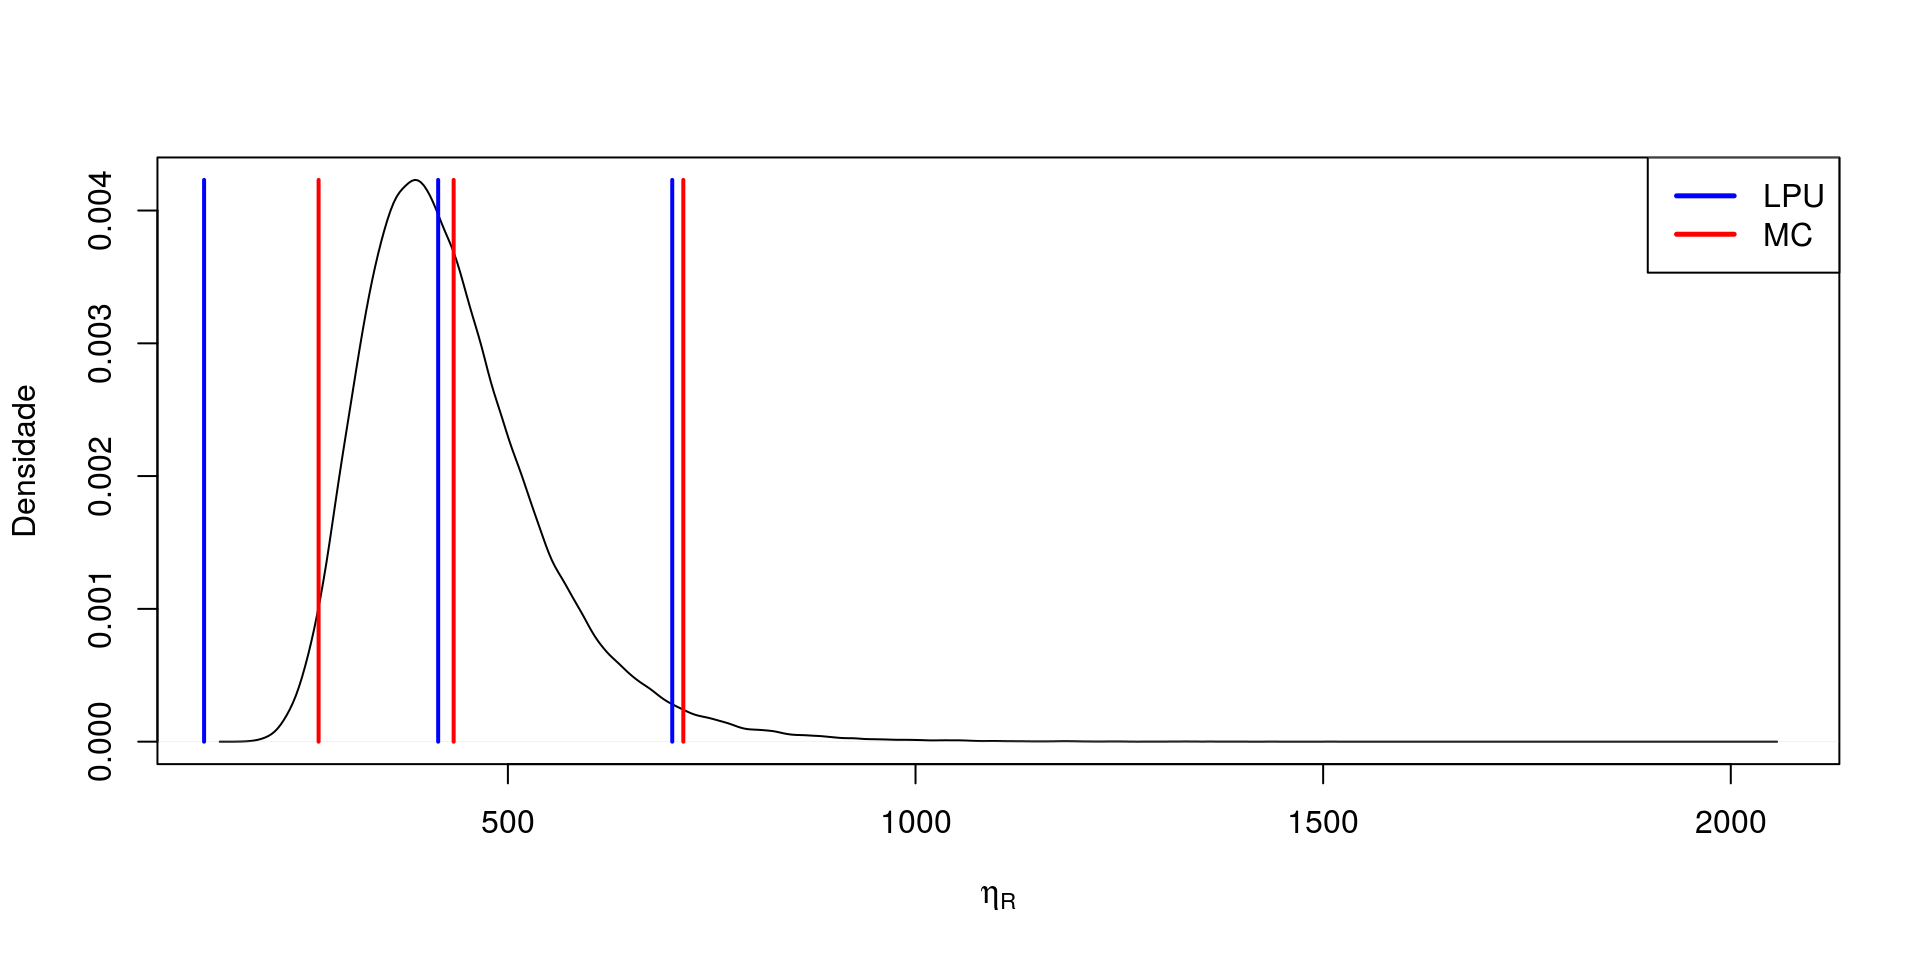
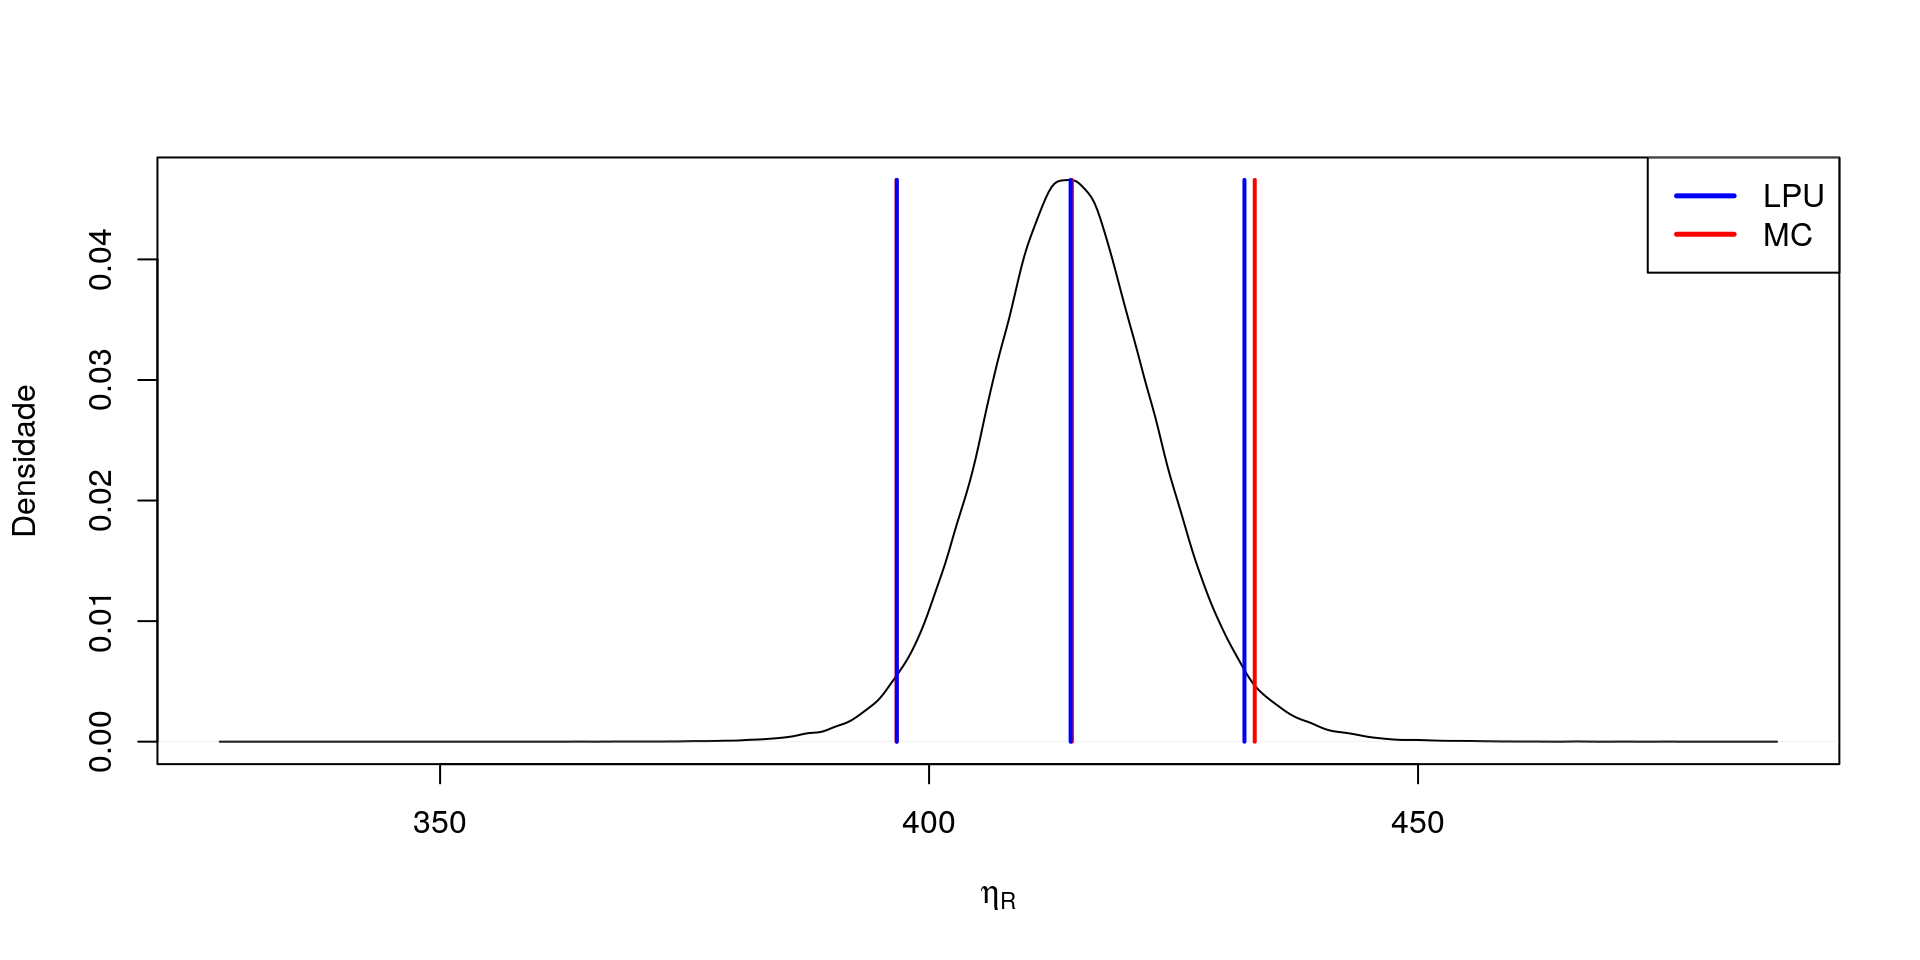
Add files via upload

diff --git a/lab2.html b/lab2.html
@@ -320,11 +320,11 @@ $(document).ready(function () {
 <td align="left">-0.0000998172672722357</td>
 </tr>
 <tr class="even">
-<td><span class="math inline">\(c*UE_i\)</span></td>
+<td><span class="math inline">\(c*UE_r\)</span></td>
 <td align="left">0.000194861851000034</td>
 </tr>
 <tr class="odd">
-<td><span class="math inline">\(c*UE_r\)</span></td>
+<td><span class="math inline">\(c*UE_i\)</span></td>
 <td align="left">-0.000232121846919487</td>
 </tr>
 <tr class="even">
@@ -345,11 +345,11 @@ $(document).ready(function () {
 </tr>
 <tr class="even">
 <td>LEP</td>
-<td align="left">0.493452210257275</td>
+<td align="left">0.493452432974323</td>
 </tr>
 <tr class="odd">
 <td>HEP</td>
-<td align="left">0.494782605466752</td>
+<td align="left">0.494782757548551</td>
 </tr>
 <tr class="even">
 <td><span class="math inline">\(\delta_1\)</span></td>
@@ -361,11 +361,11 @@ $(document).ready(function () {
 </tr>
 <tr class="even">
 <td>DH</td>
-<td align="left">0.0000149846092574735</td>
+<td align="left">0.0000148325274585415</td>
 </tr>
 <tr class="odd">
 <td>DL</td>
-<td align="left">0.0000186862663647536</td>
+<td align="left">0.0000189089834131129</td>
 </tr>
 <tr class="even">
 <td>1 Algarismo Significativo</td>
@@ -390,7 +390,13 @@ $(document).ready(function () {
 <li><span class="math inline">\(T=m_cgL\)</span></li>
 </ul>
 <p>onde: <span class="math inline">\(m_c=m_{Re}+m_{Cal}\)</span></p>
-<table>
+<table style="width:62%;">
+<colgroup>
+<col width="20%" />
+<col width="9%" />
+<col width="8%" />
+<col width="23%" />
+</colgroup>
 <thead>
 <tr class="header">
 <th>Fontes</th>
@@ -403,7 +409,7 @@ $(document).ready(function () {
 <tr class="odd">
 <td>Massa (<span class="math inline">\(m_{Re}\)</span>)</td>
 <td align="center">A</td>
-<td align="center">Normal</td>
+<td align="center">t de Student</td>
 <td align="center"><span class="math inline">\(35.7653~kg\)</span>; Desvio Padrão: <span class="math inline">\(0.3~g\)</span>; Repetições: 10</td>
 </tr>
 <tr class="even">
@@ -472,11 +478,11 @@ $(document).ready(function () {
 </tr>
 <tr class="even">
 <td>LEP</td>
-<td align="left">700.098159568585</td>
+<td align="left">700.09776817008</td>
 </tr>
 <tr class="odd">
 <td>HEP</td>
-<td align="left">700.108263347112</td>
+<td align="left">700.108703448009</td>
 </tr>
 <tr class="even">
 <td><span class="math inline">\(\delta_1\)</span></td>
@@ -488,11 +494,11 @@ $(document).ready(function () {
 </tr>
 <tr class="even">
 <td>DH</td>
-<td align="left">0.000223422882868363</td>
+<td align="left">0.00021667801422609</td>
 </tr>
 <tr class="odd">
 <td>DL</td>
-<td align="left">0.000204524123091687</td>
+<td align="left">0.000186874382507085</td>
 </tr>
 <tr class="even">
 <td>1 Algarismo Significativo</td>
@@ -515,7 +521,13 @@ $(document).ready(function () {
 <li><span class="math inline">\(T=m_cgL\)</span></li>
 </ul>
 <p>onde: <span class="math inline">\(m_c=m_{Re}+m_{Cal}\)</span></p>
-<table>
+<table style="width:62%;">
+<colgroup>
+<col width="20%" />
+<col width="9%" />
+<col width="8%" />
+<col width="23%" />
+</colgroup>
 <thead>
 <tr class="header">
 <th>Fontes</th>
@@ -528,7 +540,7 @@ $(document).ready(function () {
 <tr class="odd">
 <td>Massa (<span class="math inline">\(m_{Re}\)</span>)</td>
 <td align="center">A</td>
-<td align="center">Normal</td>
+<td align="center">t de Student</td>
 <td align="center"><span class="math inline">\(35.7653~kg\)</span>; Desvio Padrão: <span class="math inline">\(0.3~g\)</span>; Repetições: 10</td>
 </tr>
 <tr class="even">
@@ -597,11 +609,11 @@ $(document).ready(function () {
 </tr>
 <tr class="even">
 <td>LEP</td>
-<td align="left">699.937854962063</td>
+<td align="left">699.937899972477</td>
 </tr>
 <tr class="odd">
 <td>HEP</td>
-<td align="left">700.27189550356</td>
+<td align="left">700.271851436035</td>
 </tr>
 <tr class="even">
 <td><span class="math inline">\(\delta_1\)</span></td>
@@ -613,11 +625,11 @@ $(document).ready(function () {
 </tr>
 <tr class="even">
 <td>DH</td>
-<td align="left">0.0350473404071181</td>
+<td align="left">0.0350914079321001</td>
 </tr>
 <tr class="odd">
 <td>DL</td>
-<td align="left">0.0352055199898587</td>
+<td align="left">0.0352505304044826</td>
 </tr>
 <tr class="even">
 <td>1 Algarismo Significativo</td>
@@ -733,11 +745,11 @@ $(document).ready(function () {
 </tr>
 <tr class="odd">
 <td>LEP</td>
-<td align="left">1001.05104648895</td>
+<td align="left">1001.04788858546</td>
 </tr>
 <tr class="even">
 <td>HEP</td>
-<td align="left">1004.35418264329</td>
+<td align="left">1004.3557168658</td>
 </tr>
 <tr class="odd">
 <td><span class="math inline">\(\delta_1\)</span></td>
@@ -749,11 +761,11 @@ $(document).ready(function () {
 </tr>
 <tr class="odd">
 <td>DH</td>
-<td align="left">0.0176752849254171</td>
+<td align="left">0.0161410624198197</td>
 </tr>
 <tr class="even">
 <td>DL</td>
-<td align="left">0.0234644171674745</td>
+<td align="left">0.0203065136795431</td>
 </tr>
 <tr class="odd">
 <td>1 Algarismo Significativo</td>
@@ -802,7 +814,7 @@ $(document).ready(function () {
 <tr class="odd">
 <td>Marcação (<span class="math inline">\(d\)</span>)</td>
 <td align="center">B</td>
-<td align="center">Normal</td>
+<td align="center">t de Student</td>
 <td align="center"><span class="math inline">\(3~mm\)</span>; Desvio Padrão: <span class="math inline">\(0.079~mm\)</span>; Repetições: 10x</td>
 </tr>
 </tbody>
@@ -829,47 +841,47 @@ $(document).ready(function () {
 </tr>
 <tr class="even">
 <td><span class="math inline">\(c*udf\)</span></td>
-<td align="left">-99.9786679503541</td>
+<td align="left">-7.06955940816935</td>
 </tr>
 <tr class="odd">
 <td><span class="math inline">\(U\)</span></td>
-<td align="left">100.064543797899</td>
+<td align="left">8.19497105425532</td>
 </tr>
 <tr class="even">
 <td><span class="math inline">\(\nu\)</span></td>
-<td align="left">4</td>
+<td align="left">16</td>
 </tr>
 <tr class="odd">
 <td><span class="math inline">\(t\)</span></td>
-<td align="left">2.86931516969638</td>
+<td align="left">2.16894299567741</td>
 </tr>
 <tr class="even">
 <td><span class="math inline">\(U_{exp}\)</span></td>
-<td align="left">287.116713468059</td>
+<td align="left">17.7744250679062</td>
 </tr>
 <tr class="odd">
 <td>LEP</td>
-<td align="left">267.807181178047</td>
+<td align="left">396.682224307505</td>
 </tr>
 <tr class="even">
 <td>HEP</td>
-<td align="left">715.166044395604</td>
+<td align="left">433.299921906996</td>
 </tr>
 <tr class="odd">
 <td><span class="math inline">\(\delta_1\)</span></td>
-<td align="left">50</td>
+<td align="left">0.5</td>
 </tr>
 <tr class="even">
 <td><span class="math inline">\(\delta_2\)</span></td>
-<td align="left">5</td>
+<td align="left">0.05</td>
 </tr>
 <tr class="odd">
 <td>DH</td>
-<td align="left">13.5764098961118</td>
+<td align="left">1.05257580765686</td>
 </tr>
 <tr class="even">
 <td>DL</td>
-<td align="left">140.450973614674</td>
+<td align="left">0.0162716560219565</td>
 </tr>
 <tr class="odd">
 <td>1 Algarismo Significativo</td>
@@ -887,7 +899,7 @@ $(document).ready(function () {
 </table>
 <p><img src="lab2_files/figure-html/unnamed-chunk-15-1.png" width="960" /></p>
 <p>Neste caso tem-se que verificar qual ou quais as incertezas devem ser reduzidas para permitir ao menos a apresentação do resultado com 1 Algarismo Significativo. Como primeira hipótese sugere-se testar o sensor que mais influencia na incerteza combinada que neste caso é relativo ao sensor da medida <span class="math inline">\(d\)</span>.</p>
-<p>No caso abaixo o sensor da medida <span class="math inline">\(d\)</span> foi reduzida para <span class="math inline">\(0.07~mm\)</span> e realizadas 20 medidas. A proposta de alteração de sensor mais adequada depende do resultado da simetria do resultado final em Monte Carlo e a disponibilidade de sensores com a incerteza desejada.</p>
+<p>No caso abaixo foram realizadas 20 medidas do diâmetro <span class="math inline">\(d\)</span>. A proposta de alteração de sensor mais adequada depende do resultado da simetria do resultado final em Monte Carlo e a disponibilidade de sensores com a incerteza desejada.</p>
 <table>
 <thead>
 <tr class="header">
@@ -910,31 +922,31 @@ $(document).ready(function () {
 </tr>
 <tr class="even">
 <td><span class="math inline">\(c*udf\)</span></td>
-<td align="left">-4.42943465602835</td>
+<td align="left">-4.99893339751771</td>
 </tr>
 <tr class="odd">
 <td><span class="math inline">\(U\)</span></td>
-<td align="left">6.0661991169489</td>
+<td align="left">6.49370583467288</td>
 </tr>
 <tr class="even">
 <td><span class="math inline">\(\nu\)</span></td>
-<td align="left">66</td>
+<td align="left">54</td>
 </tr>
 <tr class="odd">
 <td><span class="math inline">\(t\)</span></td>
-<td align="left">2.03859445260737</td>
+<td align="left">2.04736751036537</td>
 </tr>
 <tr class="even">
 <td><span class="math inline">\(U_{exp}\)</span></td>
-<td align="left">12.3665198682238</td>
+<td align="left">13.2950023477793</td>
 </tr>
 <tr class="odd">
 <td>LEP</td>
-<td align="left">402.507506061608</td>
+<td align="left">401.227828794135</td>
 </tr>
 <tr class="even">
 <td>HEP</td>
-<td align="left">426.766788608985</td>
+<td align="left">428.226041096868</td>
 </tr>
 <tr class="odd">
 <td><span class="math inline">\(\delta_1\)</span></td>
@@ -946,11 +958,11 @@ $(document).ready(function () {
 </tr>
 <tr class="odd">
 <td>DH</td>
-<td align="left">0.0726522906710443</td>
+<td align="left">0.458117717655682</td>
 </tr>
 <tr class="even">
 <td>DL</td>
-<td align="left">0.401104898398614</td>
+<td align="left">0.0499101104814486</td>
 </tr>
 <tr class="odd">
 <td>1 Algarismo Significativo</td>
@@ -966,7 +978,7 @@ $(document).ready(function () {
 </tr>
 </tbody>
 </table>
-<p><img src="lab2_files/figure-html/unnamed-chunk-19-1.png" width="960" /></p>
+<p><img src="lab2_files/figure-html/unnamed-chunk-18-1.png" width="960" /></p>
 </div>
 </div>
 
